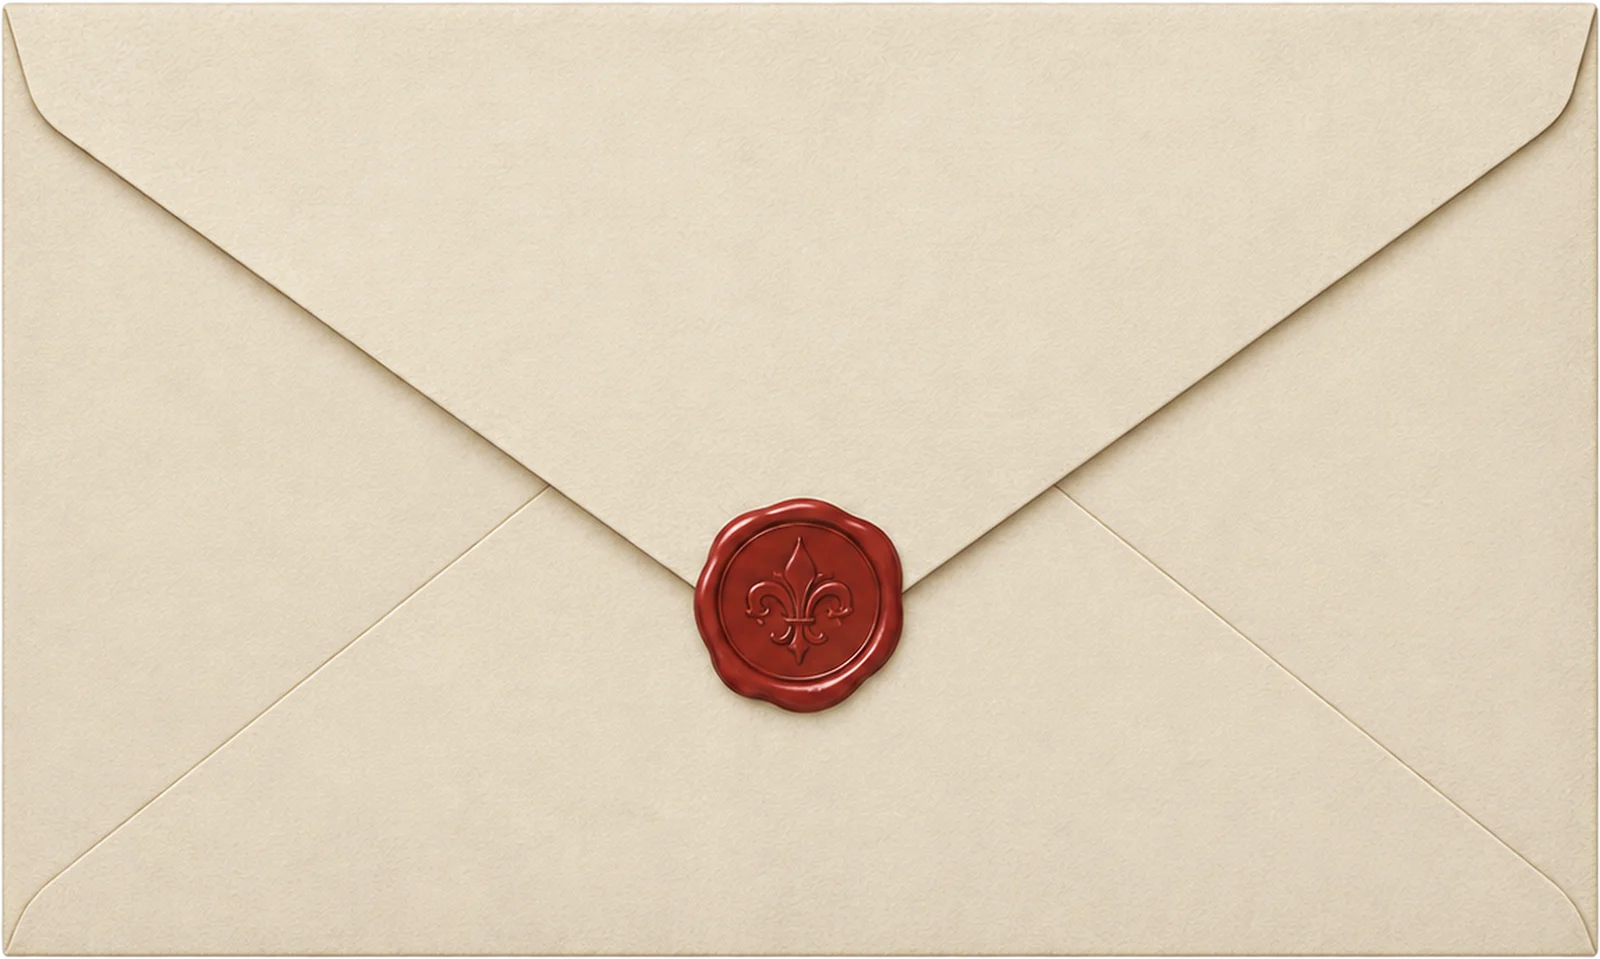
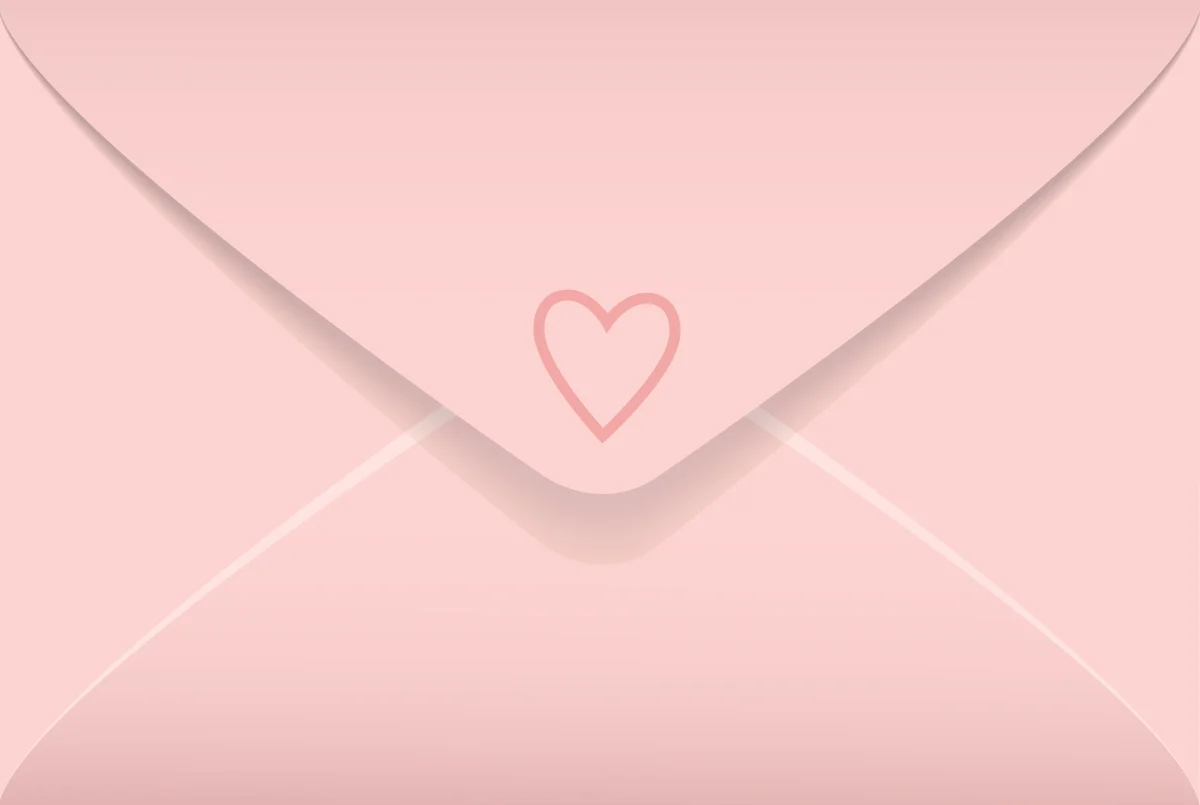
fix: woni 프로젝트로 변경

diff --git a/server/db.ts b/server/db.ts
@@ -1,4 +1,4 @@
-// Postgres(Supabase) 의 letters / room 테이블 읽기·쓰기
+// Postgres(Supabase) 의 letters_woni / room_woni 테이블 읽기·쓰기
 import postgres from 'postgres'
 import type { Letter, LetterStatus, Scene, ServerState } from '../shared/types.ts'
 import { databaseUrl } from './env.ts'
@@ -24,6 +24,10 @@ interface LetterRow {
   jitter: number
   priority: number | null
 }
+
+// 행사마다 테이블을 따로 둔다 (지난 행사: letters_bws / room_bws 백업). supabase/schema.sql 과 맞춘다
+const LETTERS = 'letters_woni'
+const ROOM = 'room_woni'
 
 let client: postgres.Sql | undefined
 
@@ -61,12 +65,12 @@ export interface Snapshot extends ServerState {
 // BIGINT 는 문자열로 오므로 float8 로 바꿔 숫자로 받는다
 async function load(sql: Sql, lock: boolean): Promise<Snapshot> {
   const [room] = lock
-    ? await sql<{ scene: Scene; version: number }[]>`SELECT scene, version::float8 AS version FROM room WHERE id = 1 FOR UPDATE`
-    : await sql<{ scene: Scene; version: number }[]>`SELECT scene, version::float8 AS version FROM room WHERE id = 1`
-  if (!room) throw new Error('room 테이블이 비어 있습니다. npm run db:setup 을 실행하세요')
+    ? await sql<{ scene: Scene; version: number }[]>`SELECT scene, version::float8 AS version FROM ${sql(ROOM)} WHERE id = 1 FOR UPDATE`
+    : await sql<{ scene: Scene; version: number }[]>`SELECT scene, version::float8 AS version FROM ${sql(ROOM)} WHERE id = 1`
+  if (!room) throw new Error(`${ROOM} 테이블이 비어 있습니다. npm run db:setup 을 실행하세요`)
   const rows = await sql<LetterRow[]>`
     SELECT id, text, created_at::float8 AS created_at, status, read_at::float8 AS read_at, jitter, priority
-    FROM letters ORDER BY created_at, seq`
+    FROM ${sql(LETTERS)} ORDER BY created_at, seq`
   return { letters: rows.map(toLetter), scene: room.scene, version: room.version }
 }
 
@@ -83,27 +87,27 @@ async function apply(sql: Sql, write: Write): Promise<void> {
         read_at: l.readAt,
         jitter: l.jitter,
       }))
-      await sql`INSERT INTO letters ${sql(rows, 'id', 'text', 'created_at', 'status', 'read_at', 'jitter')}`
+      await sql`INSERT INTO ${sql(LETTERS)} ${sql(rows, 'id', 'text', 'created_at', 'status', 'read_at', 'jitter')}`
       return
     }
     case 'setText':
-      await sql`UPDATE letters SET text = ${write.text} WHERE id = ${write.id}`
+      await sql`UPDATE ${sql(LETTERS)} SET text = ${write.text} WHERE id = ${write.id}`
       return
     case 'setStatus':
-      await sql`UPDATE letters SET status = ${write.status}, read_at = ${write.readAt} WHERE id = ${write.id}`
+      await sql`UPDATE ${sql(LETTERS)} SET status = ${write.status}, read_at = ${write.readAt} WHERE id = ${write.id}`
       return
     case 'setPriorities':
-      await sql`UPDATE letters SET priority = NULL WHERE priority IS NOT NULL`
-      for (const [i, id] of write.ids.entries()) await sql`UPDATE letters SET priority = ${i + 1} WHERE id = ${id}`
+      await sql`UPDATE ${sql(LETTERS)} SET priority = NULL WHERE priority IS NOT NULL`
+      for (const [i, id] of write.ids.entries()) await sql`UPDATE ${sql(LETTERS)} SET priority = ${i + 1} WHERE id = ${id}`
       return
     case 'unreadAll':
-      await sql`UPDATE letters SET status = 'wall', read_at = NULL WHERE status = 'read'`
+      await sql`UPDATE ${sql(LETTERS)} SET status = 'wall', read_at = NULL WHERE status = 'read'`
       return
     case 'remove':
-      await sql`DELETE FROM letters WHERE id = ${write.id}`
+      await sql`DELETE FROM ${sql(LETTERS)} WHERE id = ${write.id}`
       return
     case 'clear':
-      await sql`DELETE FROM letters`
+      await sql`DELETE FROM ${sql(LETTERS)}`
       return
   }
 }
@@ -117,7 +121,7 @@ export interface Change {
 }
 
 /**
- * room 줄을 잠근 채로 지금 상태를 읽고, update 가 돌려준 변경을 한 트랜잭션으로 저장한다.
+ * room_woni 줄을 잠근 채로 지금 상태를 읽고, update 가 돌려준 변경을 한 트랜잭션으로 저장한다.
  * 여러 PC 에서 동시에 액션이 와도 하나씩 차례로 처리된다. 변경이 없으면 null 을 돌려준다.
  */
 export async function transact(update: (current: ServerState) => Change | null): Promise<Snapshot | null> {
@@ -128,9 +132,9 @@ export async function transact(update: (current: ServerState) => Change | null):
     for (const write of change.writes) await apply(sql, write)
     const { scene } = change.state
     if (change.sceneChanged) {
-      await sql`UPDATE room SET scene = ${sql.json(scene as unknown as postgres.JSONValue)}, version = version + 1 WHERE id = 1`
+      await sql`UPDATE ${sql(ROOM)} SET scene = ${sql.json(scene as unknown as postgres.JSONValue)}, version = version + 1 WHERE id = 1`
     } else {
-      await sql`UPDATE room SET version = version + 1 WHERE id = 1`
+      await sql`UPDATE ${sql(ROOM)} SET version = version + 1 WHERE id = 1`
     }
     return { ...change.state, version: current.version + 1 }
   })

diff --git a/scripts/optimize-assets.ts b/scripts/optimize-assets.ts
@@ -11,34 +11,47 @@ const OUT = path.join(root, 'src', 'assets')
 interface Job {
   from: string
   to: string
-  run: (img: Sharp) => Sharp
+  run: (img: Sharp) => Sharp | Promise<Sharp>
 }
 
 const jobs: Job[] = [
   {
-    // 화면 전체 배경 (종이 질감, 4K). 화면 비율이 달라도 cover 로 채운다
+    // 화면 전체 배경 (4K). 가운데에 "To. WONI" 글씨가 그려져 있다. 화면 비율이 달라도 cover 로 채운다
     from: 'background_4k.png',
     to: 'background.webp',
     run: (img) => img.webp({ quality: 80 }),
   },
   {
-    // 배경 중앙의 펜 글씨 "To. BWS" — 투명 여백을 잘라낸다
-    from: 'background-pen.png',
-    to: 'to-bws.webp',
-    run: (img) => img.trim().webp({ quality: 90, alphaQuality: 100 }),
+    // 첫 화면 로고 — 배경의 "To. WONI" 글씨 부분만 잘라 밝기로 투명도를 만든다 (어두운 글씨만 남고 분홍 배경은 투명)
+    from: 'background_4k.png',
+    to: 'to-woni.webp',
+    run: (img) =>
+      img
+        .removeAlpha()
+        .extract({ left: 620, top: 700, width: 2600, height: 580 })
+        .greyscale()
+        .linear(-255 / 150, (255 * 210) / 150)
+        .toColourspace('b-w')
+        .toBuffer()
+        .then((alpha) =>
+          sharp({ create: { width: 2600, height: 580, channels: 3, background: '#3a2e31' } })
+            .joinChannel(alpha)
+            .png()
+            .toBuffer(),
+        )
+        .then((png) => sharp(png).trim().webp({ quality: 90, alphaQuality: 100 })),
   },
   {
-    // 편지봉투 — 투명 여백을 잘라내야 봉투 자체가 편지 한 칸을 꽉 채운다.
-    // 한 통만 있을 때 화면 너비의 40%(4K 에서 약 1540px)까지 커지므로 1600px 로 둔다.
-    from: 'envelop_1800w_upscaled.png',
+    // 편지봉투. 원본(1200px)보다 키우지 않는다
+    from: 'envelope.png',
     to: 'envelope.webp',
-    run: (img) => img.trim().resize({ width: 1600 }).webp({ quality: 86, alphaQuality: 95 }),
+    run: (img) => img.webp({ quality: 86 }),
   },
   {
-    // 편지지 (모달 / 작성 화면, 16:10). 4K 에서 모달이 약 2560x1600px 로 그려진다
-    from: 'letter_1536x960.png',
+    // 편지지 (모달 / 작성 화면). 위쪽에 "To. WONI" 제목과 하트 구분선이 그려져 있다
+    from: 'letter.png',
     to: 'letter.webp',
-    run: (img) => img.webp({ quality: 86 }),
+    run: (img) => img.webp({ quality: 90 }),
   },
 ]
 
@@ -48,7 +61,7 @@ const kb = (n: number) => `${(n / 1024).toFixed(0)}KB`
 for (const job of jobs) {
   const input = path.join(SRC, job.from)
   const output = path.join(OUT, job.to)
-  const info = await job.run(sharp(input)).toFile(output)
+  const info = await (await job.run(sharp(input))).toFile(output)
   const before = (await stat(input)).size
   console.log(`${job.from} (${kb(before)}) → ${job.to} ${info.width}x${info.height} (${kb(info.size)})`)
 }

diff --git a/src/styles/base.css b/src/styles/base.css
@@ -2,10 +2,10 @@
    (무대를 통째로 확대·축소하므로 vw/vh 를 쓰지 않는다). */
 
 :root {
-  --bg: #f3f0ea;
+  --bg: #fde6ef;
   --ink: #2a1b15;
   --brown: #4a2c20;
-  --paper: #f1e3c6;
+  --paper: #fff4f8;
   --seal: #a3262a;
   /* 감속·가속이 모두 있는 이동 곡선 */
   --ease-move: cubic-bezier(0.65, 0, 0.35, 1);
@@ -16,8 +16,6 @@
   --read-fade-ms: 1500ms;
   /* 배경에 쌓인 편지의 불투명도 (선택 단계 제외) */
   --wall-opacity: 0.6;
-  /* 배경 펜 글씨의 진하기 */
-  --pen-opacity: 0.9;
 }
 
 * {
@@ -51,7 +49,7 @@ button {
   cursor: pointer;
 }
 
-/* 창 전체. 무대 밖으로 남는 곳도 같은 종이 배경이 이어진다 */
+/* 창 전체. 배경 가운데에 "To. WONI" 글씨가 그려져 있고, 무대 밖으로 남는 곳도 같은 배경이 이어진다 */
 .viewport {
   position: fixed;
   inset: 0;
@@ -66,18 +64,6 @@ button {
   top: 50%;
   left: 50%;
   transform-origin: center;
-}
-
-/* 무대 중앙 배경의 펜 글씨 "To. BWS" (편지보다 뒤) */
-.watermark {
-  position: absolute;
-  top: 50%;
-  left: 50%;
-  z-index: 0;
-  width: 1075px;
-  opacity: var(--pen-opacity);
-  transform: translate(-50%, -50%);
-  pointer-events: none;
 }
 
 /* ───────── 버튼 ───────── */

diff --git a/src/components/Paper.tsx b/src/components/Paper.tsx
@@ -1,5 +1,4 @@
 import type { ReactNode } from 'react'
-import toBws from '../assets/to-bws.webp'
 import '../styles/paper.css'
 
 // 글이 길수록 글자를 줄여 최대 글자 수(200자)까지 편지지 안에 담는다
@@ -14,11 +13,10 @@ interface Props {
   children?: ReactNode
 }
 
-// 편지지. 읽기 모달과 작성 화면이 같이 쓴다
+// 편지지. 읽기 모달과 작성 화면이 같이 쓴다. "To. WONI" 제목은 편지지 이미지에 그려져 있다
 export default function Paper({ text, placeholder = '', compact = false, children }: Props) {
   return (
     <div className={`paper ${compact ? 'compact' : ''}`}>
-      <img className="paper-title" src={toBws} alt="To. BWS" draggable={false} />
       <p className={`paper-text ${sizeClass(text.length)} ${text ? '' : 'empty'}`}>{text ? `“${text}”` : placeholder}</p>
       {children}
     </div>

diff --git a/src/pages/ReadPage.tsx b/src/pages/ReadPage.tsx
@@ -5,7 +5,6 @@ import LetterLayer from '../components/LetterLayer.tsx'
 import LetterModal from '../components/LetterModal.tsx'
 import ReadControls from '../components/ReadControls.tsx'
 import Stage from '../components/Stage.tsx'
-import Watermark from '../components/Watermark.tsx'
 import { useKeyDown } from '../hooks/useKeyDown.ts'
 import { useMoving } from '../hooks/useMoving.ts'
 import { useReadActions } from '../hooks/useReadActions.ts'
@@ -45,7 +44,6 @@ export default function ReadPage() {
 
   return (
     <Stage className={stageClass}>
-      <Watermark />
       {ready && <LetterLayer letters={letters} scatter={scene.scatter} onPick={actions.pick} />}
       <ReadControls phase={scene.phase} onShuffle={actions.shuffle} onSelect={actions.select} onReset={actions.reset} />
       {openLetter && <LetterModal letter={openLetter} onClose={actions.closeLetter} />}

diff --git a/src/styles/paper.css b/src/styles/paper.css
@@ -6,20 +6,14 @@
   flex-direction: column;
   align-items: center;
   gap: 20px;
-  /* 편지지 이미지(16:10) 비율 그대로. 테두리 장식 안쪽에 내용이 들어가도록 여백을 비율로 준다 */
+  /* 편지지 이미지(753x379) 비율 그대로. 위쪽 제목·하트 구분선과 테두리 장식 안쪽에 내용이 들어가도록 여백을 비율로 준다 */
   height: 800px;
-  aspect-ratio: 16 / 10;
-  padding: 5% 11% 4%;
+  aspect-ratio: 753 / 379;
+  padding: 15.5% 11% 4%;
   background: var(--paper) url('../assets/letter.webp') center / 100% 100% no-repeat;
   border-radius: 4px;
   box-shadow: 0 30px 80px rgba(0, 0, 0, 0.45);
   animation: pop-in 320ms cubic-bezier(0.2, 0.9, 0.3, 1.15);
-}
-
-/* 펜 글씨 "To. BWS" */
-.paper-title {
-  width: 26%;
-  opacity: 0.85;
 }
 
 .paper-text {

diff --git a/src/pages/WritePage.tsx b/src/pages/WritePage.tsx
@@ -4,7 +4,6 @@ import ConnectionBadge from '../components/ConnectionBadge.tsx'
 import KioskControls, { type PinMode } from '../components/KioskControls.tsx'
 import LetterLayer from '../components/LetterLayer.tsx'
 import Stage from '../components/Stage.tsx'
-import Watermark from '../components/Watermark.tsx'
 import { useKioskLock } from '../hooks/useKioskLock.ts'
 import { useServerState } from '../net/useServerState.ts'
 
@@ -21,7 +20,6 @@ export default function WritePage() {
 
   return (
     <Stage className="writing">
-      <Watermark />
       {ready && <LetterLayer letters={letters} scatter={null} />}
       <Composer active={ready && !blocked} onSubmit={submit} />
       <KioskControls kiosk={kiosk} pin={pin} onPin={setPin} />

diff --git a/src/pages/HomePage.tsx b/src/pages/HomePage.tsx
@@ -1,4 +1,4 @@
-import toBws from '../assets/to-bws.webp'
+import toWoni from '../assets/to-woni.webp'
 import { PAGES } from '../config.ts'
 import '../styles/home.css'
 
@@ -12,7 +12,7 @@ const ENTRIES = [
 export default function HomePage() {
   return (
     <main className="home">
-      <img className="home-logo" src={toBws} alt="To. BWS" draggable={false} />
+      <img className="home-logo" src={toWoni} alt="To. WONI" draggable={false} />
       <nav className="home-entries">
         {ENTRIES.map((entry) => (
           <a key={entry.href} className="home-entry" href={entry.href}>

diff --git a/src/styles/home.css b/src/styles/home.css
@@ -8,11 +8,12 @@
   gap: clamp(24px, 5vh, 64px);
   min-height: 100vh;
   padding: 32px 24px;
-  background: var(--bg) url('../assets/background.webp') center / cover no-repeat;
+  /* 배경 이미지에는 "To. WONI" 글씨가 그려져 있어 로고와 겹치므로, 첫 화면은 같은 분홍빛 그라데이션만 쓴다 */
+  background: linear-gradient(160deg, #f9cfe2 0%, #fde6ef 45%, #fff6f9 100%);
 }
 
 .home-logo {
-  width: min(520px, 70vw);
+  width: min(620px, 80vw);
 }
 
 .home-entries {

diff --git a/scripts/db-setup.ts b/scripts/db-setup.ts
@@ -11,7 +11,7 @@ url.search = ''
 const sql = postgres(url.toString(), { ssl: 'require', max: 1, onnotice: () => {} })
 try {
   await sql.unsafe(readFileSync('supabase/schema.sql', 'utf8'))
-  const [{ count }] = await sql<{ count: number }[]>`SELECT count(*)::int AS count FROM letters`
+  const [{ count }] = await sql<{ count: number }[]>`SELECT count(*)::int AS count FROM letters_woni`
   console.log(`스키마 적용 완료 (편지 ${count}통)`)
 } finally {
   await sql.end()

diff --git a/src/layout/constants.ts b/src/layout/constants.ts
@@ -1,6 +1,6 @@
 import { STAGE_H, STAGE_W } from '../config.ts'
 
-export const LETTER_ASPECT = 1600 / 959 // 편지 가로:세로 (src/assets/envelope.webp 크기)
+export const LETTER_ASPECT = 1200 / 805 // 편지 가로:세로 (src/assets/envelope.webp 크기)
 export const LETTER_W = 163 // 편지의 기준 크기. 실제 크기는 포즈의 배율(s)로 정한다
 export const LETTER_H = Math.round(LETTER_W / LETTER_ASPECT)
 

diff --git a/src/styles/composer.css b/src/styles/composer.css
@@ -1,6 +1,6 @@
 /* 작성 UI */
 
-/* 대기 상태: 배경 위에 떠 있는 반투명 안내. 중앙 펜 글씨 아래 끝과 무대 바닥의 정중앙 */
+/* 대기 상태: 배경 위에 떠 있는 반투명 안내. 배경 "To. WONI" 글씨 아래쪽 */
 .idle-prompt {
   position: absolute;
   top: 852px;
